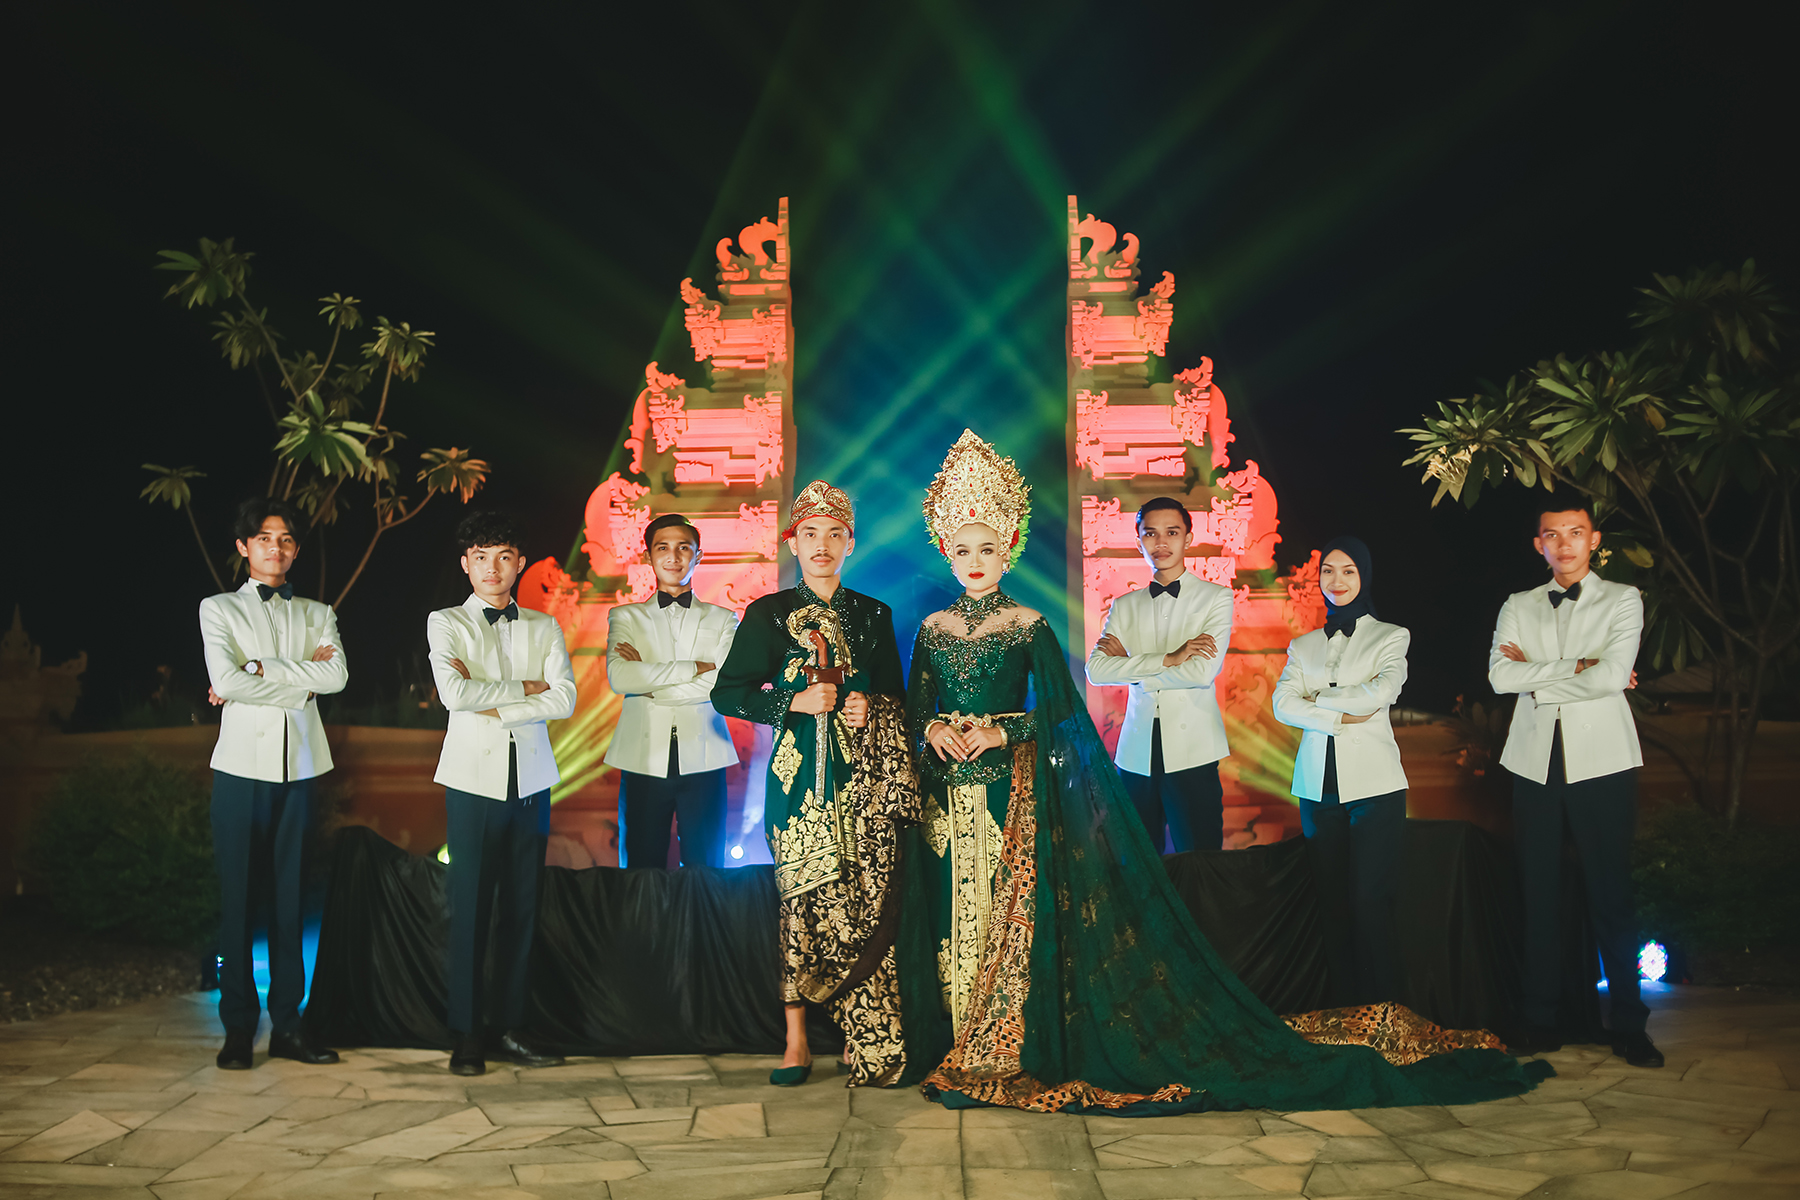
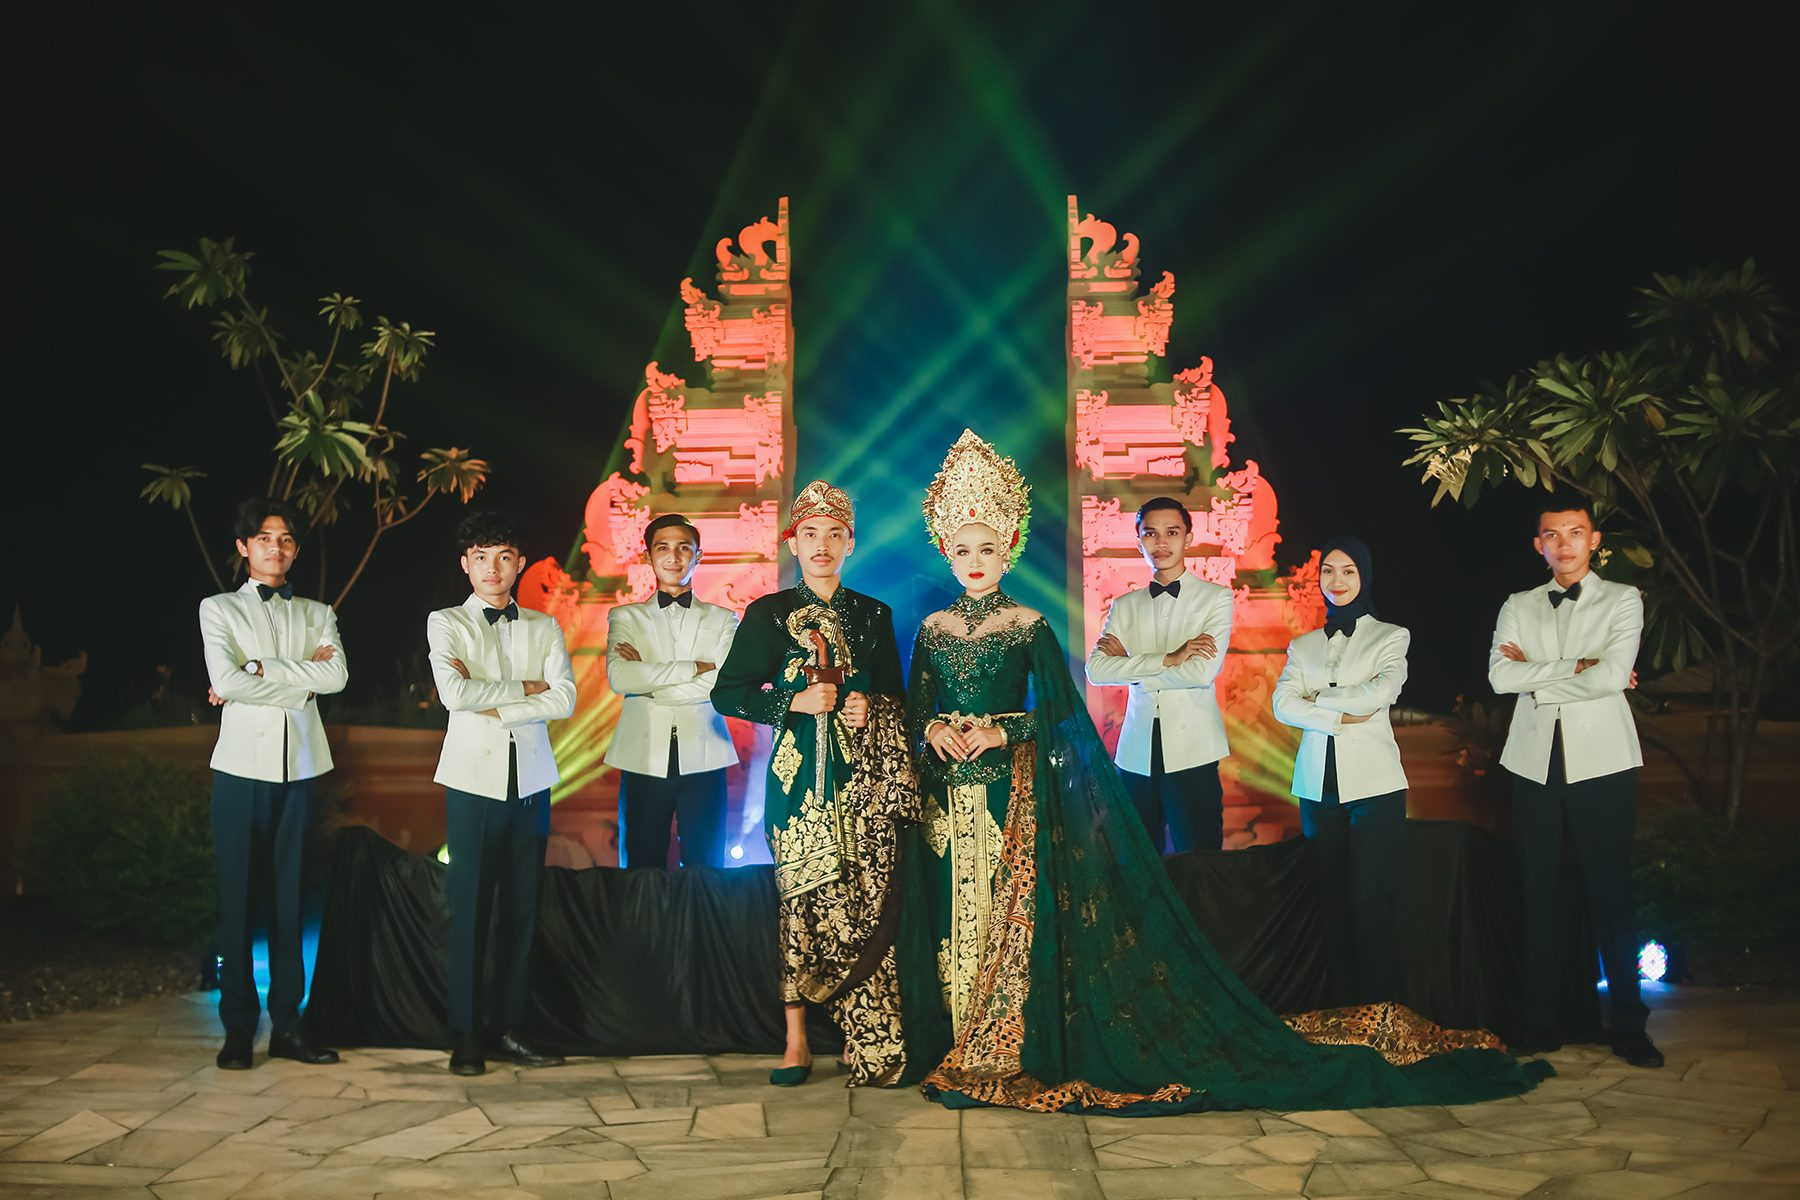
Portofolio: compress photos, drop caption overlay; Copy: rebase region to Majalengka (100+ couples, 20+ crew, local venues, since 2019), replace em-dashes, remove navbar tagline

diff --git a/resources/js/pages/welcome/data.ts b/resources/js/pages/welcome/data.ts
@@ -72,7 +72,6 @@ export interface Benefit {
 export interface PortfolioItem {
     image: string;
     alt: string;
-    caption: string;
 }
 
 export interface FaqItem {
@@ -117,19 +116,19 @@ const testimonials: Testimonial[] = [
         initials: 'DA',
         quote: '"Bener-bener gak salah pilih Mahes Ayu & MHSWR! Desain adat Jawanya mewah banget, gak norak. Musik gendingnya pas dibuka langsung bikin merinding khidmat. Pas disebar ke keluarga besar di Solo & Jakarta pada muji karena praktis langsung nyambung Maps!"',
         name: 'dr. Dimas & Anindya, S.Ked',
-        venue: 'Resepsi di Sasana Modern Tangerang',
+        venue: 'Resepsi di Pendopo Agung Majalengka',
     },
     {
         initials: 'RN',
         quote: '"Fitur QR Code check-in di Paket Diamond nolong banget pas hari H! Resepsi 1,200 undangan gak pake antre berjubel di meja registrasi. Laporan tamu yang hadir langsung tercatat rapi. Admin MHSWR juga responsif parah pas ada revisi jam akad dadakan!"',
         name: 'Briptu D. Adji & Brigpol Nola',
-        venue: 'Balai Kartini Exhibition Hall Jakarta',
+        venue: 'Resepsi di Balai Diklat Cirebon',
     },
     {
         initials: 'FR',
         quote: '"Template Minimalist Editorial nya bener-bener kayak majalah luar negeri! Tampilannya estetik, foto prewed kami kelihatan jernih tanpa pecah. Amplop digital QRIS nya juga lancar banget buat teman-teman kantor yang berhalangan hadir."',
         name: 'Ferdian, S.T. & Rachel, M.B.A',
-        venue: 'Plataran Dharmawangsa Jakarta',
+        venue: 'Resepsi di Pendopo Kabupaten Kuningan',
     },
 ];
 
@@ -137,7 +136,7 @@ const about: AboutContent = {
     eyebrow: 'COMPANY PROFILE',
     heading: 'Tentang Kami',
     paragraphs: [
-        'Mahes Ayu adalah penyedia layanan pagar ayu profesional di bawah naungan Maheswari Enterprise (MHSWR). Kami menghadirkan tim penyambut tamu yang terlatih, tertata, dan indah budi — menjaga kehormatan acara keluarga Anda dari pintu masuk hingga tamu terakhir pulang.',
+        'Mahes Ayu adalah penyedia layanan pagar ayu profesional di bawah naungan Maheswari Enterprise (MHSWR). Kami menghadirkan tim penyambut tamu yang terlatih, tertata, dan indah budi, menjaga kehormatan acara keluarga Anda dari pintu masuk hingga tamu terakhir pulang.',
         'Nama Mahes Ayu kami ambil dari filosofi keelokan yang merendah: keanggunan busana, tata krama nusantara, dan kerelaan melayani bertemu dalam satu pelayanan. Setiap personel kami melalui pelatihan protokoler penyambutan, penataan pos foto, serta penanganan tamu VIP dan tamu istimewa.',
     ],
     image: '/images/tentang-kami/about.jpg',
@@ -213,7 +212,7 @@ const benefits: Benefit[] = [
     {
         title: 'Beban Panitia Berkurang',
         description:
-            'Koordinasi pos, jadwal shift, dan penempatan lokasi kami petakan sendiri — keluarga cukup fokus menikmati hari bahagia tanpa drama dadakan.',
+            'Koordinasi pos, jadwal shift, dan penempatan lokasi kami petakan sendiri. Keluarga cukup fokus menikmati hari bahagia tanpa drama dadakan.',
     },
     {
         title: 'Tepat Jadwal Hingga Tamu Terakhir',
@@ -221,7 +220,7 @@ const benefits: Benefit[] = [
             'Crew hadir 30 menit sebelum pembukaan dan bertahan hingga tamu terakhir terurus, sepenuhnya mengikuti run-down yang Anda susun.',
     },
     {
-        title: 'Zero Blunder Protocol — Garansi Ketepatan',
+        title: 'Zero Blunder Protocol: Garansi Ketepatan',
         description:
             'Detail brief, jadwal shift, dan penempatan pos kami cek berlapis. Jika ada personel yang tidak sesuai standar, penggantian dilakukan tanpa biaya tambahan hingga acara selesai.',
     },
@@ -231,39 +230,33 @@ const portfolios: PortfolioItem[] = [
     {
         image: '/images/portofolio/galeri-1.jpg',
         alt: 'Portofolio resepsi adat Jawa Mahes Ayu',
-        caption: 'Resepsi Adat Jawa — Gedung Sasana Kriya, Jakarta',
     },
     {
         image: '/images/portofolio/galeri-2.jpg',
         alt: 'Portofolio resepsi modern editorial Mahes Ayu',
-        caption: 'Resepsi Modern Editorial — The Glass House, Jakarta',
     },
     {
         image: '/images/portofolio/galeri-3.jpg',
         alt: 'Portofolio akad nikah intim Mahes Ayu',
-        caption: 'Akad Intim Ballroom — Hotel Mulia Senayan, Jakarta',
     },
     {
         image: '/images/portofolio/galeri-4.jpg',
         alt: 'Portofolio pernikahan adat Sunda Mahes Ayu',
-        caption: 'Pernikahan Adat Sunda — Puri Begawan, Bogor',
     },
     {
         image: '/images/portofolio/galeri-5.jpg',
         alt: 'Portofolio garden party Mahes Ayu',
-        caption: 'Garden Party Intimate — Boutique Chapel, Bogor',
     },
     {
         image: '/images/portofolio/galeri-6.jpg',
         alt: 'Portofolio tim Mahes Ayu di lokasi resepsi',
-        caption: 'Tim Teregistrasi MHSWR — On Time Guaranteed',
     },
 ];
 
 const faqs: FaqItem[] = [
     {
         question: 'Apakah seragam disediakan oleh Mahes Ayu?',
-        answer: 'Ya. Seluruh tim tampil dengan seragam busana adat semi-formal milik Mahes Ayu yang serasi dengan warna dan tema dekorasi acara Anda — tanpa biaya sewa tambahan.',
+        answer: 'Ya. Seluruh tim tampil dengan seragam busana adat semi-formal milik Mahes Ayu yang serasi dengan warna dan tema dekorasi acara Anda, tanpa biaya sewa tambahan.',
     },
     {
         question: 'Bagaimana sistem booking layanannya?',
@@ -298,13 +291,13 @@ const faqs: FaqItem[] = [
 const stats: StatItem[] = [
     {
         icon: Heart,
-        value: 1800,
+        value: 100,
         suffix: '+',
         label: 'Pasangan Terlayani sejak 2019',
     },
     {
         icon: Users,
-        value: 250,
+        value: 20,
         suffix: '+',
         label: 'Crew Profesional Terlatih',
     },
@@ -318,6 +311,6 @@ const stats: StatItem[] = [
         icon: MapPin,
         value: 4,
         suffix: '',
-        label: 'Kota Atelier Layanan',
+        label: 'Kota Utama Area Layanan',
     },
 ];

diff --git a/resources/js/pages/welcome/sections/Hero.tsx b/resources/js/pages/welcome/sections/Hero.tsx
@@ -26,15 +26,15 @@ export default function Hero() {
                 <div className="grid grid-cols-1 items-end gap-8 pb-8 lg:grid-cols-12">
                     <div data-reveal className="text-left lg:col-span-7">
                         <div className="mb-2 flex items-center gap-2 font-label text-xs tracking-widest text-white/70 uppercase md:text-sm">
-                            <span>JAKARTA & JAWA BARAT</span>
+                            <span>MAJALENGKA & JAWA BARAT</span>
                             <span className="inline-block h-1.5 w-1.5 rounded-full bg-[#2563EB]" />
-                            <span>6.2088° S, 106.8456° E</span>
+                            <span>6.7862° S, 108.2333° E</span>
                         </div>
                         <div className="mb-3 flex items-center gap-2 text-[11px] font-bold tracking-wider text-blue-300 uppercase md:text-xs">
                             <span>MAHESWARI ENTERPRISE</span>
                             <span>•</span>
                             <span className="text-white/60">
-                                JAGONYA WEDDING SEJAK 2018
+                                JAGONYA WEDDING SEJAK 2019
                             </span>
                         </div>
                         <h1 className="text-3xl leading-[1.08] font-bold tracking-tight text-white sm:text-5xl lg:text-[3.5rem]">
@@ -50,19 +50,19 @@ export default function Hero() {
                         <div className="mb-1 flex justify-start lg:justify-end">
                             <div className="text-left lg:text-right">
                                 <span className="font-label text-sm font-bold tracking-wider text-blue-300">
-                                    1,800+ PASANGAN BERBAHAGIA
+                                    100+ PASANGAN BERBAHAGIA
                                 </span>
                                 <p className="text-[11px] text-white/60">
-                                    Tersebar di Jabodetabek & Nusantara
+                                    Tersebar di Jawa Barat & Nusantara
                                 </p>
                             </div>
                         </div>
                         <p className="text-sm leading-relaxed font-normal text-white/80 md:text-[15px]">
                             Tim pagar ayu profesional & wedding organizer
                             pernikahan karya Maheswari Enterprise. Dipercaya
-                            oleh lebih dari 1,800+ pasangan dengan penyambutan
-                            tamu yang tertata, protokoler tepat, seragam tegap,
-                            dan kepastian momen sakral bebas rasa cemas.
+                            oleh 100+ pasangan dengan penyambutan tamu yang
+                            tertata, protokoler tepat, seragam tegap, dan
+                            kepastian momen sakral bebas rasa cemas.
                         </p>
                         <div className="flex flex-wrap items-center gap-3 pt-2">
                             <a

diff --git a/resources/js/pages/welcome/sections/SiteFooter.tsx b/resources/js/pages/welcome/sections/SiteFooter.tsx
@@ -1,5 +1,4 @@
 import {
-    Building2,
     Clock,
     Instagram,
     Mail,
@@ -52,7 +51,7 @@ export default function SiteFooter() {
                             Layanan resmi penyambut tamu (pagar ayu) di bawah
                             naungan Maheswari Enterprise (MHSWR). Kami menjaga
                             kehormatan acara keluarga Anda dari pintu masuk
-                            hingga tamu terakhir pulang — dengan busana tertata,
+                            hingga tamu terakhir pulang, dengan busana tertata,
                             protokoler tepat, dan pelayanan hangat.
                         </p>
                         <div className="flex items-center gap-3 pt-2">
@@ -121,17 +120,8 @@ export default function SiteFooter() {
                                     className="mr-2 inline h-3.5 w-3.5 text-sky-400"
                                     aria-hidden="true"
                                 />
-                                <strong>Atelier Jakarta:</strong> Menara
-                                Kuningan Lt. 15, Jl. H.R. Rasuna Said, Jakarta
-                                Selatan
-                            </p>
-                            <p>
-                                <Building2
-                                    className="mr-2 inline h-3.5 w-3.5 text-sky-400"
-                                    aria-hidden="true"
-                                />
-                                <strong>Atelier Jawa Barat:</strong> Pajajaran
-                                Park Residence, Kota Bogor
+                                <strong>Atelier Majalengka:</strong>
+                                Majalengka, Jawa Barat
                             </p>
                             <p>
                                 <Phone
@@ -166,7 +156,7 @@ export default function SiteFooter() {
                             SSL 256-Bit Encrypted
                         </span>
                         <span>•</span>
-                        <span>Bogor & Jakarta, Indonesia</span>
+                        <span>Majalengka, Jawa Barat, Indonesia</span>
                     </div>
                 </div>
             </div>

diff --git a/resources/js/pages/welcome/sections/PortofolioSection.tsx b/resources/js/pages/welcome/sections/PortofolioSection.tsx
@@ -69,8 +69,8 @@ export default function PortofolioSection() {
                     </div>
                     <p className="max-w-md text-sm text-slate-600 md:text-base">
                         Potret berbagai momen pernikahan yang telah kami sambut
-                        dan jaga — dari akad intim hingga resepsi keluarga besar
-                        di seluruh Jabodetabek.
+                        dan jaga, dari akad intim hingga resepsi keluarga besar
+                        di seluruh Jawa Barat.
                     </p>
                 </div>
                 <div className="grid grid-cols-1 gap-6 sm:grid-cols-2 lg:grid-cols-3">
@@ -99,15 +99,6 @@ export default function PortofolioSection() {
                                 className="aspect-[4/3] w-full object-cover transition duration-700 group-hover:scale-105"
                                 loading="lazy"
                             />
-                            <div className="absolute inset-0 bg-gradient-to-t from-black/70 via-black/10 to-transparent opacity-80 transition duration-500 group-hover:opacity-100" />
-                            <figcaption className="absolute bottom-0 left-0 w-full p-5">
-                                <p className="font-cond text-sm font-bold text-white sm:text-base">
-                                    {portfolio.caption}
-                                </p>
-                                <p className="font-label text-[10px] font-bold tracking-widest text-sky-300 uppercase">
-                                    MHSWR PROTECTED EVENT
-                                </p>
-                            </figcaption>
                         </figure>
                     ))}
                 </div>

diff --git a/resources/js/pages/welcome/sections/BenefitSection.tsx b/resources/js/pages/welcome/sections/BenefitSection.tsx
@@ -51,7 +51,7 @@ export default function BenefitSection() {
                                 Keunggulan Memilih Layanan Kami
                             </h2>
                             <p className="mt-6 max-w-md text-sm leading-relaxed text-slate-600 md:text-base">
-                                Lebih dari sekadar hiasan panggung — tim kami
+                                Lebih dari sekadar hiasan panggung. Tim kami
                                 adalah investasi rapi untuk kekhidmatan hari
                                 paling penting Anda. Saat halaman digulir ke
                                 bawah, setiap kelebihan Mahes Ayu akan terungkap

diff --git a/resources/js/pages/welcome/sections/SiteNav.tsx b/resources/js/pages/welcome/sections/SiteNav.tsx
@@ -68,11 +68,6 @@ export default function SiteNav({
                                 className="h-9 w-auto"
                             />
                         </span>
-                        <span
-                            className={`hidden font-body text-[10px] font-semibold tracking-widest sm:inline ${onHero ? 'text-white/70' : 'text-slate-500'}`}
-                        >
-                            BY MAHESWARI ENTERPRISE
-                        </span>
                     </a>
                     <nav className="hidden items-center gap-1 text-xs font-semibold md:flex">
                         {navLinks.map((link) => (

diff --git a/resources/js/pages/welcome/sections/CrewSection.tsx b/resources/js/pages/welcome/sections/CrewSection.tsx
@@ -21,7 +21,7 @@ export default function CrewSection() {
                     </div>
                     <p className="max-w-md text-sm text-slate-600 md:text-base">
                         Setiap personel Mahes Ayu terlatih dalam protokoler
-                        penyambutan dan tampil seragam — rapi, ramah, dan siap
+                        penyambutan dan tampil seragam, rapi, ramah, dan siap
                         menjaga kekhidmatan acara keluarga Anda.
                     </p>
                 </div>

diff --git a/resources/js/pages/welcome/sections/TestimoniSection.tsx b/resources/js/pages/welcome/sections/TestimoniSection.tsx
@@ -29,7 +29,7 @@ export default function TestimoniSection() {
                             />
                         ))}
                         <span className="ml-2 font-label text-sm font-bold text-[#0A2540]">
-                            5.0 / 5.0 (1,800+ Pasangan)
+                            5.0 / 5.0 (100+ Pasangan)
                         </span>
                     </div>
                 </div>
